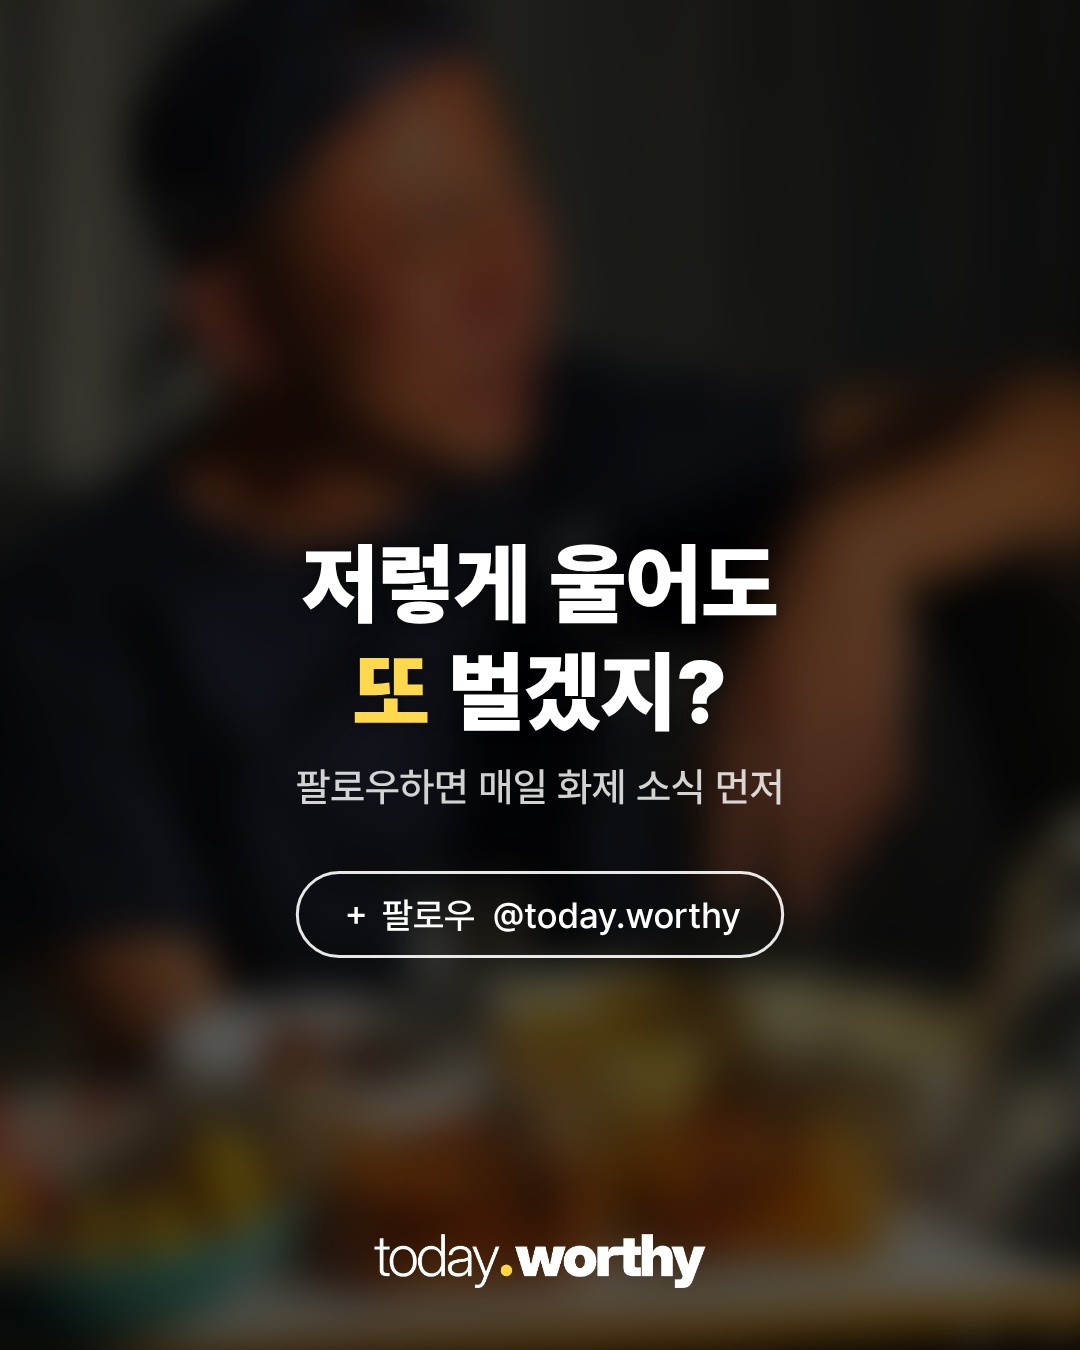
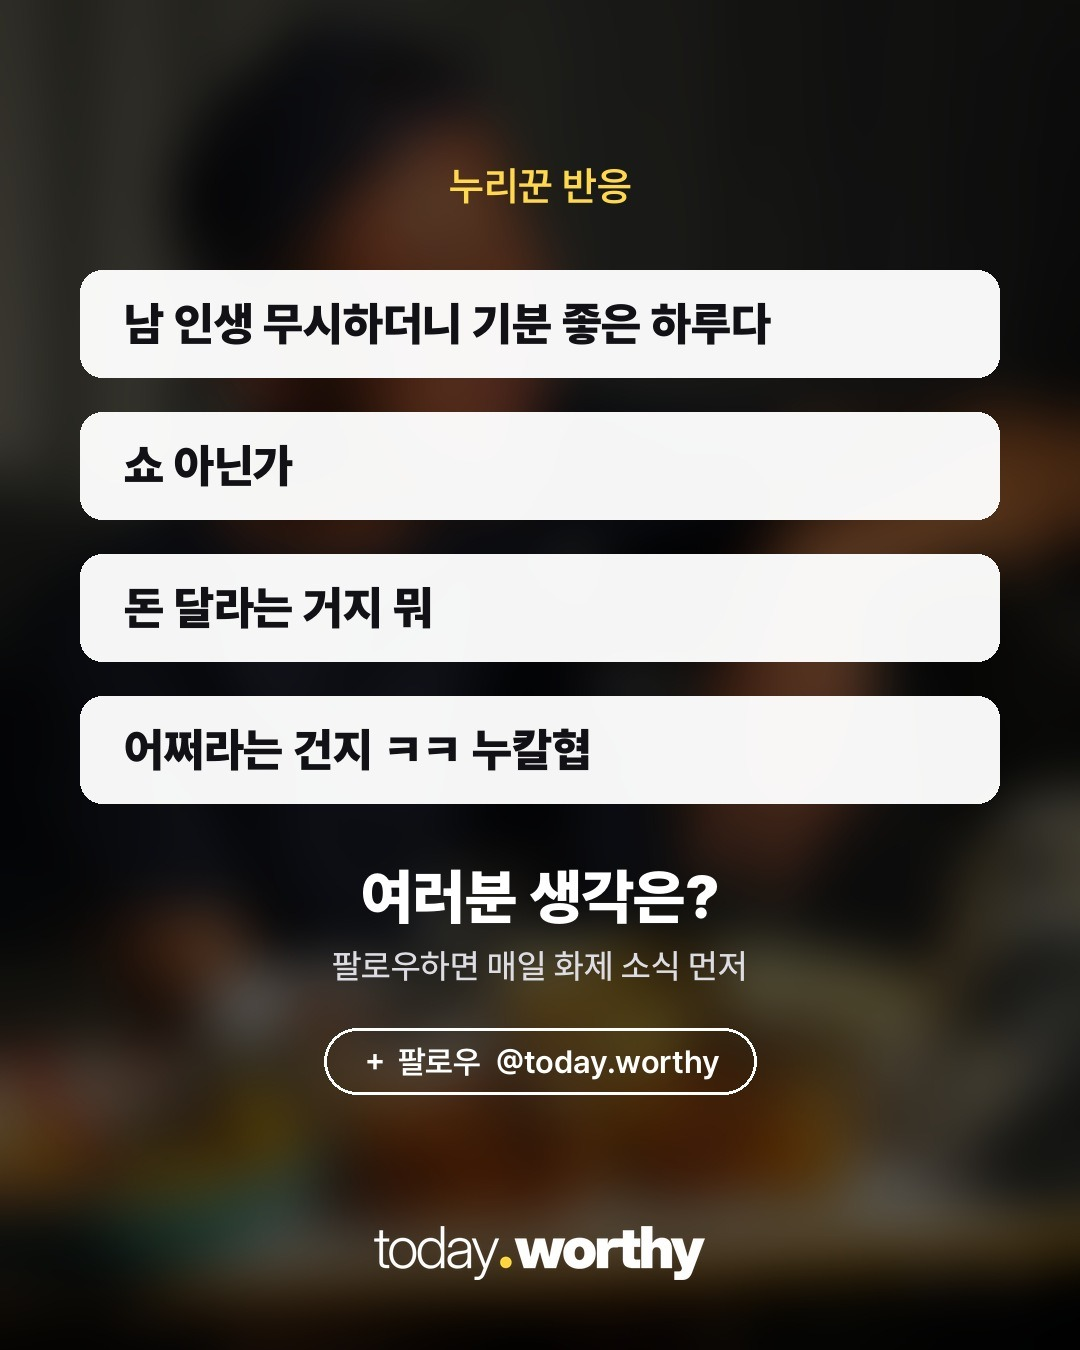
zico: CTA 누리꾼 반응
Claude-Session: https://claude.ai/code/session_01FGsw5S4nGrZdCJo7qBU1wE

diff --git a/media/20261123-zico/make_cta.py b/media/20261123-zico/make_cta.py
@@ -1,0 +1,30 @@
+"""20261123-zico 마지막 장: 누리꾼 반응 댓글 + 팔로우(우리 CTA 양식: 표지 흐림 배경·로고·외곽선 버튼)."""
+from pathlib import Path
+from PIL import Image, ImageDraw, ImageFont, ImageFilter, ImageEnhance, ImageOps
+
+D = Path(__file__).parent; R = D.parents[1]; O = D / "cand"
+W, H = 1080, 1350; YE = (255, 216, 77)
+F = lambda w, s: ImageFont.truetype(str(R / f"assets/fonts/Pretendard-{w}.otf"), s)
+COMMENTS = ["남 인생 무시하더니 기분 좋은 하루다", "쇼 아닌가", "돈 달라는 거지 뭐", "어쩌라는 건지 ㅋㅋ 누칼협"]
+
+bg = ImageOps.fit(Image.open(O / "cover_bg.jpg").convert("RGB"), (W, H), Image.LANCZOS)
+bg = ImageEnhance.Brightness(bg.filter(ImageFilter.GaussianBlur(26))).enhance(.35).convert("RGBA")
+d = ImageDraw.Draw(bg)
+d.text((W / 2, 200), "누리꾼 반응", font=F("SemiBold", 40), fill=YE, anchor="ms")
+y = 270; bh = 108; gap = 34
+for c in COMMENTS:
+    box = Image.new("RGBA", (W - 160, bh), (0, 0, 0, 0)); bd = ImageDraw.Draw(box)
+    bd.rounded_rectangle((0, 0, box.width - 1, bh - 1), 22, fill=(255, 255, 255, 245))
+    bd.text((44, bh / 2), c, font=F("Black", 46), fill=(18, 18, 22), anchor="lm")
+    bg.alpha_composite(box, (80, y)); y += bh + gap
+d = ImageDraw.Draw(bg)
+y += 40
+d.text((W / 2, y + 40), "여러분 생각은?", font=F("Black", 60), fill=(255, 255, 255), anchor="ms")
+d.text((W / 2, y + 100), "팔로우하면 매일 화제 소식 먼저", font=F("Medium", 34), fill=(220, 220, 226), anchor="ms")
+bt = "＋ 팔로우  @today.worthy"; f = F("SemiBold", 32); tw = d.textlength(bt, font=f)
+by = y + 150; d.rounded_rectangle(((W - tw) / 2 - 36, by, (W + tw) / 2 + 36, by + 66), 33, outline=(255, 255, 255), width=3)
+d.text((W / 2, by + 33), bt, font=f, fill=(255, 255, 255), anchor="mm")
+lg = Image.open(R / "brand/logo_typo_A.png").convert("RGBA"); lh = 54; lw = int(lg.width * lh / lg.height)
+lg = lg.resize((lw, lh), Image.LANCZOS); bg.alpha_composite(lg, ((W - lw) // 2, H - 70 - lh))
+bg.convert("RGB").save(O / "cta.jpg", quality=93)
+print("ok")
